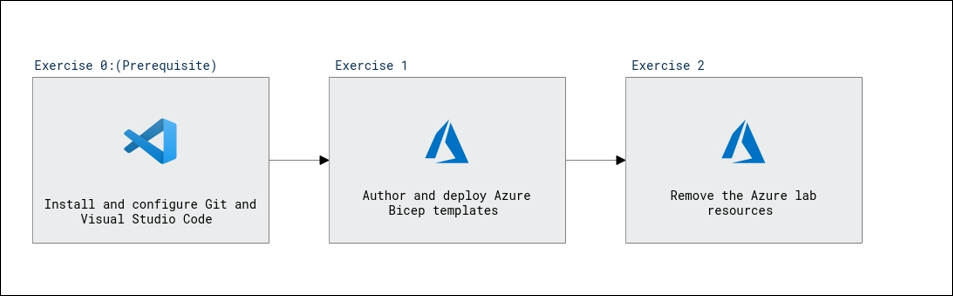
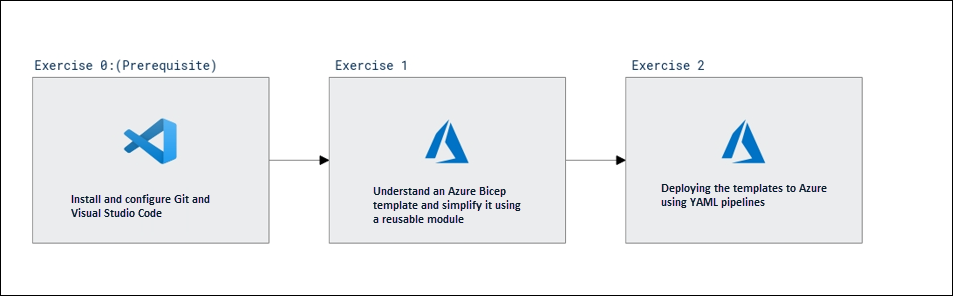
updated

Changed region(s): [[0.0304, 0.6385, 0.2739, 0.7601], [0.6695, 0.6081, 0.8825, 0.7297], [0.3652, 0.6385, 0.5782, 0.7601]]

diff --git a/Instructions/Labs/AZ400_M03_L08_Control_Deployments_using_Release_Gates.md b/Instructions/Labs/AZ400_M03_L08_Control_Deployments_using_Release_Gates.md
@@ -36,91 +36,7 @@ After you complete this lab, you will be able to:
 
   ![Architecture Diagram](images/lab7-architecture-new.png) 
 
-## Estimated timing: 75 minutes
-
-## Set up an Azure DevOps organization. 
-
-1. In the JumpVM, click on the Azure portal shortcut of the Microsoft Edge browser which is created on the desktop.
-   
-   ![Azure DevOps](images/azureportal-lab7.png)
-   
-1. If not Sign-in, then on the **Sign into Microsoft Azure** tab you will see the login screen, in that enter following **Email/Username** and then click on **Next**. 
-
-   * Email/Username: <inject key="AzureAdUserEmail"></inject>
-   
-1. Now enter the following **Password** and click on **Sign in**.
-
-   * Password: <inject key="AzureAdUserPassword"></inject>
-   
-1. If you see the pop-up **Stay Signed in?**, click No.
-   
-1. If you see the pop-up **You have free Azure Advisor recommendations!**, close the window to continue the lab.
-   
-1. If **Welcome to Microsoft Azure** popup window appears, click **Maybe Later** to skip the tour.
-   
-1. Now open a **New Tab** navigate to https://go.microsoft.com/fwlink/?LinkId=307137.
-
-    >**Note:** If not **login**, use previously used **Username: <inject key="AzureAdUserEmail"></inject> and Password: <inject key="AzureAdUserPassword"></inject>** to login.
-    
-1. If you see the pop-up for *Help us protect your account*, select **Skip for now (14 days until this is required)**.
-   
-1. On the next page accept defaults and click on **continue**.
-   
-    ![Azure DevOps](images/startdevops.png)
-    
-1. On the **Almost Done...** page fill the captcha and click on **continue**.
-   
-    ![Azure DevOps](images/m1-2updated.png)
-   
-1. On the Azure Devops page click on **Azure DevOps(1)** located at top left corner and then click on **Organization Settings (2)** at the left down corner.
-   
-    ![Azure DevOps](images/agent1updated.png)
-    
-1. In the **Organization Settings** window on the left menu click on **Billing (1)** and select **Setup Billing (2)**, It will automatically select your **azure subscription (3)** then click on **Save(4)**.
-   
-    ![Azure DevOps](images/bill.png)
-   
-1. On the **MS Hosted CI/CD** section under **Paid parallel jobs** enter value **1** and at the end of the page click on **Save**.
-   
-    ![Azure DevOps](images/billingsetup1.png)
-   
-# Exercise 1: Configure the lab prerequisites
-
-> **Note**: If you already created this project during previous labs, this exercise can be skipped.
-
-In this exercise, you will set up the prerequisites for the lab, which consist of a new Azure DevOps project with a repository based on the [eShopOnWeb]
-(https://github.com/MicrosoftLearning/eShopOnWeb). 
-
-## Task 1: Create and configure the team project
-
-In this task, you will create an **eShopOnWeb** Azure DevOps project to be used by several labs.
-
-1.  On your lab computer, in a browser window open your Azure DevOps organization by selecting **Azure DevOps**. Give your project the name **eShopOnWeb (1)** and leave the other fields with defaults. Click on **+ Create project (3)**.
-   
-    ![Create Project](images/createprojectupdated.png)
-    
-## Task 2: Import eShopOnWeb Git Repository
-
-In this task you will import the eShopOnWeb Git repository that will be used by several labs.
-
-1.  On your lab computer, in a browser window open your Azure DevOps organization and the previously created **eShopOnWeb** project. Click on **Repos (1)>Files (2)** , **Import a Repository**. Select **Import (3)**. On the **Import a Git Repository** window, paste the following URL https://github.com/MicrosoftLearning/eShopOnWeb.git **(4)** and click **Import (5)**:
-   
-     ![Import Repository](images/import.png)
-    
-1.  The repository is organized the following way:
-    - **.ado** folder contains Azure DevOps YAML pipelines
-    - **.devcontainer** folder container setup to develop using containers (either locally in VS Code or GitHub Codespaces)
-    - **infra** folder contains Bicep&ARM infrastructure as code templates used in some lab scenarios.
-    - **.github** folder container YAML GitHub workflow definitions.
-    - **src** folder contains the .NET 8 website used on the lab scenarios.
-      
-1. Go to **Repos>Branches**.
-   
-1. Hover on the **main** branch then click the ellipsis on the right of the column.
-   
-1. Click on **Set as default branch**.
-
-# Exercise 2: Configure the lab prerequisites
+# Exercise 0: Configure the lab prerequisites
 
 ## Task 1: Configure CI Pipeline as Code with YAML in Azure DevOps
 
@@ -163,7 +79,7 @@ In this task, you will add a YAML build definition to the existing project.
    
     > **Note**: Each task from the YAML file is available for review, including any warnings and errors.
 
-# Exercise 3: Creating the necessary Azure Resources for the Release Pipeline
+# Exercise 1: Creating the necessary Azure Resources for the Release Pipeline
 
 ## Task 1: Create two Azure web apps
 
@@ -292,7 +208,7 @@ In this task, you will create two Azure web apps representing the **Canary** and
 
 1. Confirm the creation of the Alert rule by clicking **Review + create (5)**, and confirm once more by clicking **Create**. Wait for the alert rule to get created successfully.
 
-# Exercise 4: Configure the release pipeline
+# Exercise 2: Configure the release pipeline
 
 In this exercise, you will configure a release pipeline.
 
@@ -421,7 +337,7 @@ In this task, you will set up the release tasks as part of the Release Pipeline.
 
     > **Note**: Now you have the application with CI/CD configured. In the next exercise we will set up Quality Gates as part of a more advanced  Release pipeline.
 
-# Exercise 5: Configure release gates
+# Exercise 3: Configure release gates
 
 In this exercise, you will set up Quality Gates in the release pipeline.
 
@@ -518,7 +434,7 @@ In this task, you will enable the post-deployment gate for the Canary Environmen
  
    <validation step="29f6bfe8-0b16-4145-92f9-30e77d26ab03" />
 
-# Exercise 6: Test release gates
+# Exercise 4: Test release gates
 
 In this exercise, you will test the release gates by updating the application, which will trigger a deployment.
 

diff --git a/Instructions/Labs/AZ400_M03_L09_Set_Up_and_Run_Functional_Tests.md b/Instructions/Labs/AZ400_M03_L09_Set_Up_and_Run_Functional_Tests.md
@@ -18,39 +18,15 @@ After you complete this lab, you will be able to configure a CI pipeline for a .
 
 ## Estimated timing: 60 minutes
 
+## Architecture Diagram
+
+  ![Architecture Diagram](images/lab09-architecture-new.png) 
+
 ### Exercise 1: Setup Tests in CI pipeline
 
 In this exercise, you will setup tests in CI pipeline.
 
-#### Task 1: (Skip if done) Import the YAML build definition for CI
-
-In this task, you will add the YAML build definition that will be used to implement the Continuous Integration.
-
-Let's start by importing the CI pipeline named [eshoponweb-ci.yml](https://github.com/MicrosoftLearning/eShopOnWeb/blob/main/.ado/eshoponweb-ci.yml).
-
-1. Go to **Pipelines>Pipelines**.
-
-1. Click on **New Pipeline** button.
-
-1. Select **Azure Repos Git (YAML)**.
-
-1. Select the **eShopOnWeb** repository.
-
-1. Select **Existing Azure Pipelines YAML File**.
-
-1. Select the **main** branch and the **/.ado/eshoponweb-ci.yml** file, then click on **Continue**.
-
-    The CI definition consists of the following tasks:
-    - **DotNet Restore**: With NuGet Package Restore you can install all your project's dependency without having to store them in source control.
-    - **DotNet Build**: Builds a project and all of its dependencies.
-    - **DotNet Test**: .Net test driver used to execute unit tests.
-    - **DotNet Publish**: Publishes the application and its dependencies to a folder for deployment to a hosting system. In this case, it's **Build.ArtifactStagingDirectory**.
-    - **Publish Artifact - Website**: Publish the app artifact (created in the previous step) and make it available as a pipeline artifact.
-    - **Publish Artifact - Bicep**: Publish the infrastructure artifact (Bicep file) and make it available as a pipeline artifact.
-
-1. Click the **Save** button (not **Save and run**) to save the pipeline definition.
-
-#### Task 2: Add tests to the CI pipeline
+#### Task 1: Add tests to the CI pipeline
 
 In this task, you will add the integration and functional tests to the CI Pipeline.
 
@@ -84,7 +60,7 @@ You can notice that the Unit Tests task is already part of the pipeline.
 
 1. Click **Save**, on the **Save** pane, click **Save** again to commit the changes directly into the main branch.
 
-#### Task 4: Check the tests summary
+#### Task 2: Check the tests summary
 
 1. Click on the **Run**, then from the **Run pipeline** tab, click on **Run** again.
 

diff --git a/Instructions/Labs/AZ400_M04_L11_Enable_Dynamic_Configuration_and_Feature_Flags.md b/Instructions/Labs/AZ400_M04_L11_Enable_Dynamic_Configuration_and_Feature_Flags.md
@@ -262,7 +262,6 @@ Let's continue to test the Feature manager.
  
    <validation step="ec5155c1-0a64-4319-9b84-94137c2a9658" />
 
-
 ## Review
 
 In this lab, you learned how to dynamically enable configuration and manage feature flags.
